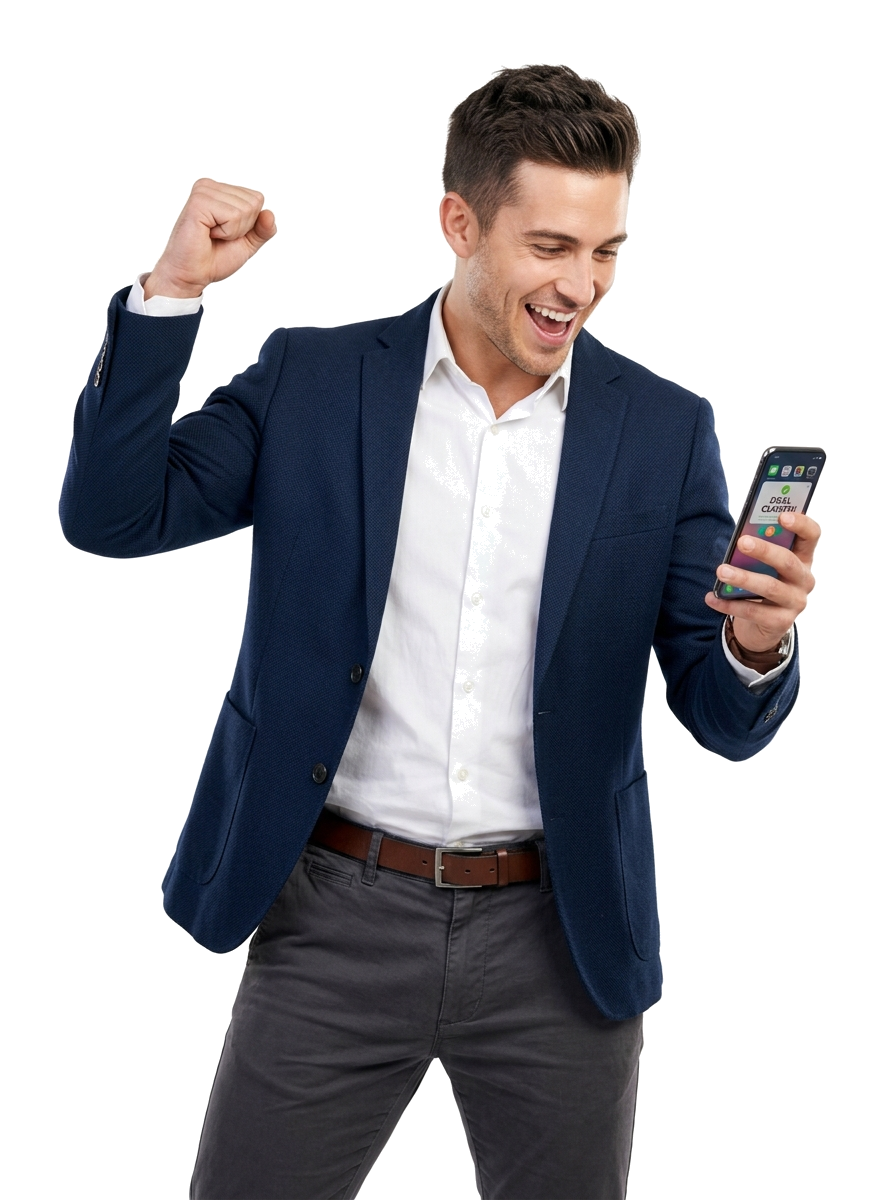
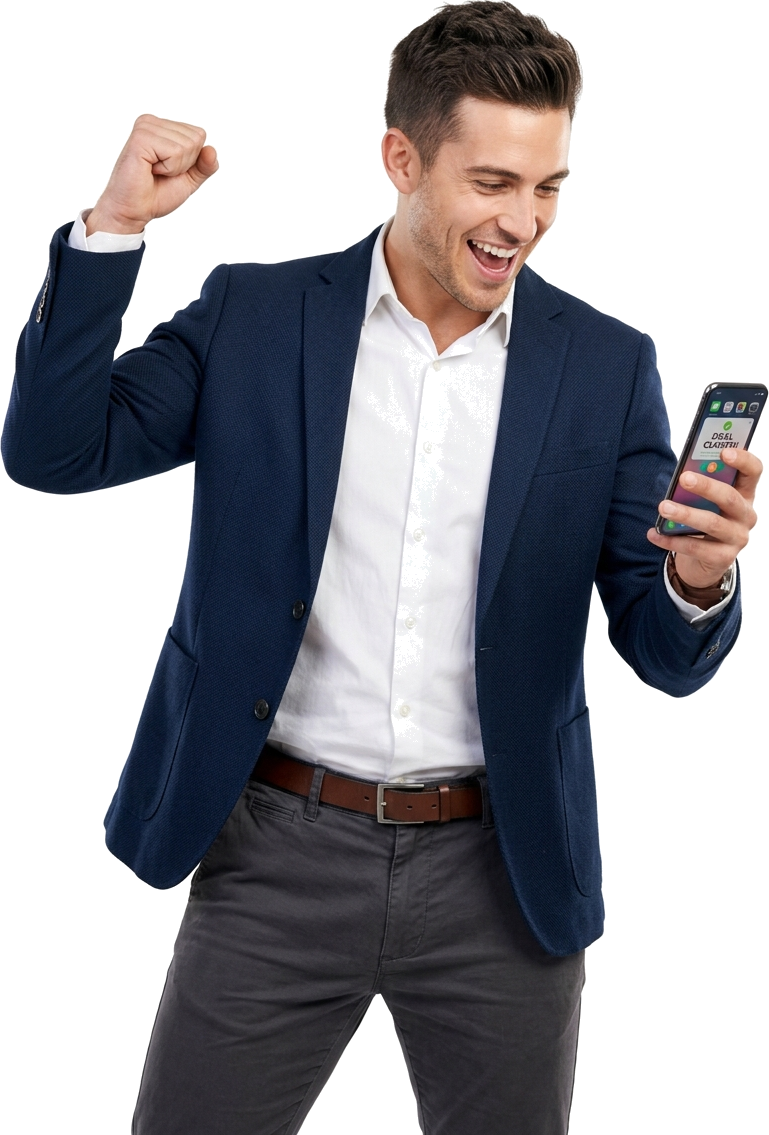
feat: add MobileAppSection component and associated visual assets

diff --git a/src/components/sections/MobileAppSection.tsx b/src/components/sections/MobileAppSection.tsx
@@ -3,130 +3,129 @@ import { Zap, Download, Star, Apple } from 'lucide-react';
 
 export const MobileAppSection: React.FC = () => {
   return (
-    <section id="mobile-app" className="w-full bg-[#101622] text-white py-10 sm:py-12 lg:py-14 relative overflow-hidden font-['Plus_Jakarta_Sans',sans-serif] border-y border-slate-800/80">
+    <section id="mobile-app" className="w-full bg-[#121722] text-white pt-8 sm:pt-10 lg:pt-12 pb-0 relative overflow-hidden font-['Plus_Jakarta_Sans',sans-serif] border-y border-slate-800/80">
       
-      {/* Background Dark Cinematic EV Car Image - Full 100% Bleed */}
+      {/* Background Dark Cinematic EV Car Image - Full 100% Edge-to-Edge */}
       <div 
         className="absolute inset-0 bg-cover bg-center bg-no-repeat opacity-30 mix-blend-luminosity pointer-events-none"
         style={{ backgroundImage: `url('/dark_ev_bg.jpg')` }}
       />
       {/* Ambient Lighting Gradient Overlays */}
-      <div className="absolute inset-0 bg-gradient-to-r from-[#101622] via-[#101622]/85 to-[#101622]/50 pointer-events-none" />
-      <div className="absolute inset-0 bg-gradient-to-b from-transparent via-[#101622]/40 to-[#101622] pointer-events-none" />
+      <div className="absolute inset-0 bg-gradient-to-r from-[#121722] via-[#121722]/85 to-[#121722]/45 pointer-events-none" />
+      <div className="absolute inset-0 bg-gradient-to-b from-transparent via-[#121722]/30 to-[#121722] pointer-events-none" />
 
       {/* Green Glow Accents */}
       <div className="absolute top-1/4 left-1/3 w-[500px] h-[500px] bg-[#32aa15]/15 rounded-full blur-[140px] pointer-events-none" />
       <div className="absolute bottom-0 right-1/4 w-[400px] h-[400px] bg-[#38c838]/10 rounded-full blur-[120px] pointer-events-none" />
 
       <div className="max-w-[1440px] mx-auto px-4 sm:px-6 lg:px-8 relative z-10">
-        <div className="grid grid-cols-1 lg:grid-cols-12 gap-6 lg:gap-8 items-center">
+        <div className="grid grid-cols-1 lg:grid-cols-12 gap-8 lg:gap-4 items-end">
 
-            {/* LEFT COLUMN: BADGE, HEADLINE & 2 FLOATING STAT CARDS */}
-            <div className="lg:col-span-4 space-y-4 sm:space-y-5">
-              
-              {/* Badge */}
-              <div className="inline-flex items-center gap-2 text-[#32aa15] text-xs sm:text-sm font-extrabold uppercase tracking-[0.25em]">
-                <Zap className="w-4 h-4 fill-[#32aa15] text-[#32aa15]" />
-                <span>DOWNLOAD</span>
-              </div>
-
-              {/* Main Heading */}
-              <h2 className="text-2xl sm:text-3xl lg:text-[40px] font-black text-white tracking-tight leading-[1.12] font-['Wix_Madefor_Display',sans-serif]">
-                Get the app made for smart EV drivers
-              </h2>
-
-              {/* 2 Floating Stat Cards Matching Screenshot */}
-              <div className="space-y-3 max-w-xs sm:max-w-sm">
-                
-                {/* Stat Card 1: 30M+ Downloaded & Installation */}
-                <div className="bg-[#242A38]/90 backdrop-blur-md border border-slate-700/60 rounded-2xl p-3.5 sm:p-4 flex items-center gap-3.5 shadow-xl hover:border-[#32aa15]/60 transition-colors">
-                  <div className="w-10 h-10 rounded-full bg-[#32aa15]/20 text-[#32aa15] flex items-center justify-center shrink-0">
-                    <Download className="w-4 h-4 stroke-[2.5]" />
-                  </div>
-                  <div>
-                    <p className="text-xl sm:text-2xl font-black text-white leading-tight font-['Wix_Madefor_Display',sans-serif]">
-                      30M+
-                    </p>
-                    <p className="text-[11px] text-slate-400 font-medium mt-0.5">
-                      Downloaded &amp; Installation
-                    </p>
-                  </div>
-                </div>
-
-                {/* Stat Card 2: 4.7/5 Based on 2,302 reviews */}
-                <div className="bg-[#242A38]/90 backdrop-blur-md border border-slate-700/60 rounded-2xl p-3.5 sm:p-4 flex items-center gap-3.5 shadow-xl hover:border-[#32aa15]/60 transition-colors">
-                  <div className="w-10 h-10 rounded-full bg-[#32aa15]/20 text-[#32aa15] flex items-center justify-center shrink-0">
-                    <Star className="w-4 h-4 fill-[#32aa15] text-[#32aa15]" />
-                  </div>
-                  <div>
-                    <p className="text-xl sm:text-2xl font-black text-white leading-tight font-['Wix_Madefor_Display',sans-serif]">
-                      4.7/5
-                    </p>
-                    <p className="text-[11px] text-slate-400 font-medium mt-0.5">
-                      Based on 2,302 reviews
-                    </p>
-                  </div>
-                </div>
-
-              </div>
-
+          {/* LEFT COLUMN: BADGE, HEADLINE & 2 FLOATING STAT CARDS */}
+          <div className="lg:col-span-4 space-y-5 sm:space-y-6 pb-8 sm:pb-12">
+            
+            {/* Badge */}
+            <div className="inline-flex items-center gap-2 text-[#32aa15] text-xs sm:text-sm font-extrabold uppercase tracking-[0.25em]">
+              <Zap className="w-4 h-4 fill-[#32aa15] text-[#32aa15]" />
+              <span>DOWNLOAD</span>
             </div>
 
-            {/* CENTER COLUMN: HIGH-RES DUAL PHONES IMAGE PROVIDED BY USER */}
-            <div className="lg:col-span-5 flex items-center justify-center py-1 sm:py-2">
-              <div className="w-full max-w-[360px] sm:max-w-[420px] lg:max-w-[450px] flex items-center justify-center">
-                <img
-                  src="/mobile_app_phones.png"
-                  alt="Evoltek Mobile App Charging Interface"
-                  className="w-full h-auto object-contain drop-shadow-[0_15px_30px_rgba(0,0,0,0.8)] select-none pointer-events-none transform hover:scale-[1.02] transition-transform duration-300"
-                  loading="lazy"
-                />
-              </div>
-            </div>
+            {/* Main Heading */}
+            <h2 className="text-3xl sm:text-4xl lg:text-[42px] font-black text-white tracking-tight leading-[1.12] font-['Wix_Madefor_Display',sans-serif]">
+              Get the app made for smart EV drivers
+            </h2>
 
-            {/* RIGHT COLUMN: GREEN STORE DOWNLOAD CARD & HAPPY EV DRIVER */}
-            <div className="lg:col-span-3 flex flex-col justify-between items-center lg:items-end h-full relative">
+            {/* 2 Floating Stat Cards Matching Screenshot */}
+            <div className="space-y-3.5 max-w-xs sm:max-w-sm">
               
-              {/* Vibrant Green Store Download Card (Top Right) */}
-              <div className="w-full max-w-[200px] bg-[#32aa15] p-3.5 sm:p-4 rounded-2xl sm:rounded-3xl shadow-2xl flex flex-col gap-2 z-20 border border-white/20">
-                
-                {/* App Store Pill Button */}
-                <a
-                  href="#download-ios"
-                  className="w-full bg-[#0F172A] hover:bg-black text-white px-3.5 py-2 rounded-xl flex items-center gap-2.5 transition-all duration-200 group shadow-md"
-                >
-                  <Apple className="w-4 h-4 fill-current text-white shrink-0 group-hover:scale-105 transition-transform" />
-                  <span className="text-xs font-bold text-white tracking-wide">App Store</span>
-                </a>
-
-                {/* Google Play Pill Button */}
-                <a
-                  href="#download-android"
-                  className="w-full bg-[#0F172A] hover:bg-black text-white px-3.5 py-2 rounded-xl flex items-center gap-2.5 transition-all duration-200 group shadow-md"
-                >
-                  <svg className="w-3.5 h-3.5 fill-current text-white shrink-0 group-hover:scale-105 transition-transform" viewBox="0 0 24 24">
-                    <path d="M3 20.5v-17c0-.55.45-1 1-1h.24l10.22 8.76L4.24 20.02H4c-.55 0-1-.45-1-.98zm12.92-7.81L18.4 14.1l3.07-1.78c.7-.4.7-1.05 0-1.45L18.4 9.1l-2.48 1.44 2.48 1.43v.72zm-1.46.85L4.72 21.84c.34.16.74.12 1.05-.06l10.15-5.91-1.46-.84zm0-3.08l1.46-.84-10.15-5.9c-.31-.18-.71-.22-1.05-.06l9.74 8.35.7.45z" />
-                  </svg>
-                  <span className="text-xs font-bold text-white tracking-wide">Google Play</span>
-                </a>
-
+              {/* Stat Card 1: 30M+ Downloaded & Installation */}
+              <div className="bg-[#242A38]/90 backdrop-blur-md border border-slate-700/60 rounded-2xl p-4 flex items-center gap-4 shadow-xl hover:border-[#32aa15]/60 transition-colors">
+                <div className="w-10 h-10 rounded-full bg-[#32aa15]/20 text-[#32aa15] flex items-center justify-center shrink-0 shadow-inner">
+                  <Download className="w-5 h-5 stroke-[2.5]" />
+                </div>
+                <div>
+                  <p className="text-2xl font-black text-white leading-tight font-['Wix_Madefor_Display',sans-serif]">
+                    30M+
+                  </p>
+                  <p className="text-xs text-slate-400 font-medium mt-0.5">
+                    Downloaded &amp; Installation
+                  </p>
+                </div>
               </div>
 
-              {/* Smiling Happy User Looking at Smartphone (Bottom Right) */}
-              <div className="w-full flex items-end justify-center lg:justify-end mt-2 lg:mt-auto relative z-10 pointer-events-none">
-                <img
-                  src="/happy_ev_user.png"
-                  alt="Excited EV User Celebrating with Mobile App"
-                  className="w-auto h-[220px] sm:h-[260px] lg:h-[290px] object-contain object-bottom drop-shadow-2xl select-none"
-                  loading="lazy"
-                />
+              {/* Stat Card 2: 4.7/5 Based on 2,302 reviews */}
+              <div className="bg-[#242A38]/90 backdrop-blur-md border border-slate-700/60 rounded-2xl p-4 flex items-center gap-4 shadow-xl hover:border-[#32aa15]/60 transition-colors">
+                <div className="w-10 h-10 rounded-full bg-[#32aa15]/20 text-[#32aa15] flex items-center justify-center shrink-0 shadow-inner">
+                  <Star className="w-5 h-5 fill-[#32aa15] text-[#32aa15]" />
+                </div>
+                <div>
+                  <p className="text-2xl font-black text-white leading-tight font-['Wix_Madefor_Display',sans-serif]">
+                    4.7/5
+                  </p>
+                  <p className="text-xs text-slate-400 font-medium mt-0.5">
+                    Based on 2,302 reviews
+                  </p>
+                </div>
               </div>
 
             </div>
 
           </div>
 
+          {/* CENTER COLUMN: DUAL PHONES TOUCHING THE BOTTOM */}
+          <div className="lg:col-span-5 flex items-end justify-center self-end p-0 m-0 leading-none">
+            <div className="w-full max-w-[400px] sm:max-w-[460px] lg:max-w-[490px] flex items-end justify-center p-0 m-0 leading-none">
+              <img
+                src="/mobile_app_phones.png"
+                alt="Evoltek Mobile App Charging Interface"
+                className="w-full h-auto block object-contain object-bottom drop-shadow-[0_25px_45px_rgba(0,0,0,0.9)] select-none pointer-events-none mb-0 pb-0"
+                loading="lazy"
+              />
+            </div>
+          </div>
+
+          {/* RIGHT COLUMN: STORE DOWNLOAD CARD (TOP) & MAN TOUCHING THE BOTTOM */}
+          <div className="lg:col-span-3 flex flex-col justify-between items-center lg:items-end self-stretch pt-2">
+            
+            {/* Vibrant Green Store Download Card (Top Right) */}
+            <div className="w-full max-w-[210px] bg-[#38c838] p-4 sm:p-5 rounded-3xl shadow-2xl flex flex-col gap-2.5 z-20 border border-white/20 mb-4 lg:mb-0">
+              
+              {/* App Store Pill Button */}
+              <a
+                href="#download-ios"
+                className="w-full bg-[#0F172A] hover:bg-black text-white px-4 py-2.5 rounded-xl flex items-center gap-2.5 transition-all duration-200 group shadow-md"
+              >
+                <Apple className="w-5 h-5 fill-current text-white shrink-0 group-hover:scale-105 transition-transform" />
+                <span className="text-xs font-bold text-white tracking-wide">App Store</span>
+              </a>
+
+              {/* Google Play Pill Button */}
+              <a
+                href="#download-android"
+                className="w-full bg-[#0F172A] hover:bg-black text-white px-4 py-2.5 rounded-xl flex items-center gap-2.5 transition-all duration-200 group shadow-md"
+              >
+                <svg className="w-4 h-4 fill-current text-white shrink-0 group-hover:scale-105 transition-transform" viewBox="0 0 24 24">
+                  <path d="M3 20.5v-17c0-.55.45-1 1-1h.24l10.22 8.76L4.24 20.02H4c-.55 0-1-.45-1-.98zm12.92-7.81L18.4 14.1l3.07-1.78c.7-.4.7-1.05 0-1.45L18.4 9.1l-2.48 1.44 2.48 1.43v.72zm-1.46.85L4.72 21.84c.34.16.74.12 1.05-.06l10.15-5.91-1.46-.84zm0-3.08l1.46-.84-10.15-5.9c-.31-.18-.71-.22-1.05-.06l9.74 8.35.7.45z" />
+                </svg>
+                <span className="text-xs font-bold text-white tracking-wide">Google Play</span>
+              </a>
+
+            </div>
+
+            {/* Smiling Happy User Looking at Smartphone (Touching Bottom) */}
+            <div className="w-full flex items-end justify-center lg:justify-end mt-auto p-0 m-0 leading-none">
+              <img
+                src="/happy_ev_user.png"
+                alt="Excited EV User Celebrating with Mobile App"
+                className="w-auto h-[260px] sm:h-[300px] lg:h-[340px] block object-contain object-bottom drop-shadow-2xl select-none mb-0 pb-0"
+                loading="lazy"
+              />
+            </div>
+
+          </div>
+
         </div>
-      </section>
+      </div>
+    </section>
   );
 };
